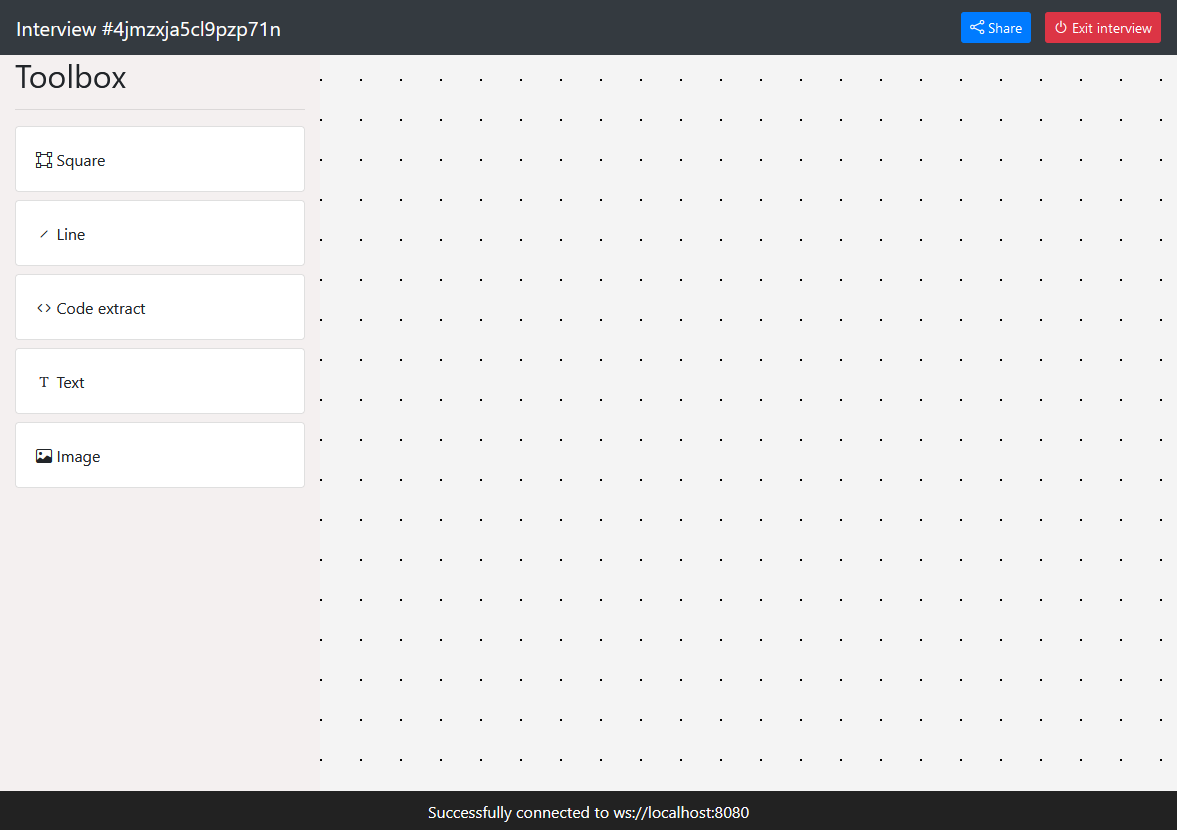
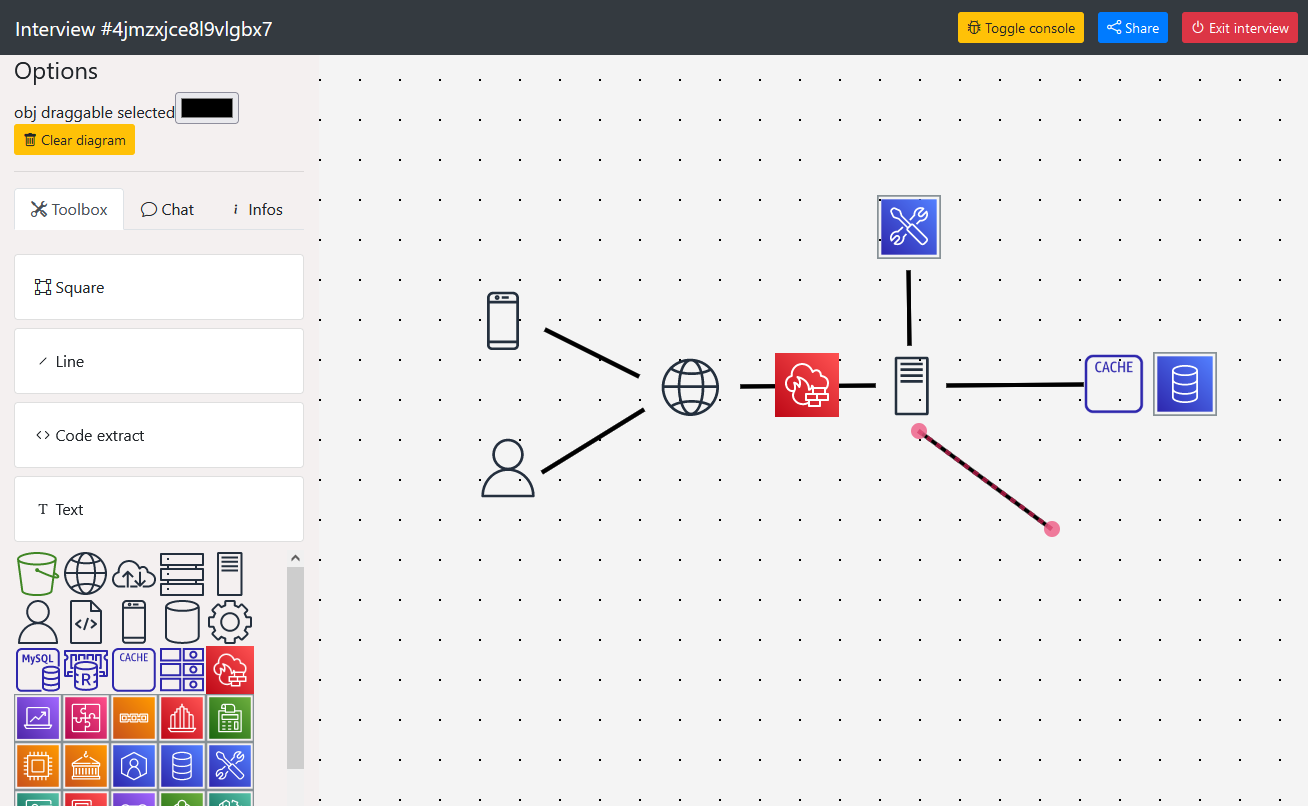
adds objects of type LINE

diff --git a/src/views/includes/js/diagram.js b/src/views/includes/js/diagram.js
@@ -15,25 +15,32 @@ const diagram = {
     addImage: function(url) {
         this.addElement('image', {backgroundImage: `url(${url})`})
     },
+    //  Adds element: line
+    addLine: function() {
+        this.addElement('line', {width: '50px'});
+    },
     //  Adds an element to diagram
-    addElement: function (type, options = null) {
+    addElement: function (type, options=null) {
         const elem = createDiagramElement(type);
         if(options !== null)
             updateDiagramElement(elem, options)
-        getContainer().appendChild(elem);
         Lobby.sendDiagramUpdate()
     },
     //  Convert DOM elements into JSON object
-    toJSON: () => Array.from(getContainer().children).map(elem => {
-        return {
-            //  Fixed properties
-            uuid: elem.getAttribute('data-uuid'),
-            type: elem.getAttribute('data-type'),
-            //  Customizable properties
-            pos: [elem.style.left, elem.style.top],
-            backgroundImage: elem.style.backgroundImage,
-        }
-    }),
+    toJSON: () => Array.from(getContainer().children)
+                    .filter(elem => elem.getAttribute('data-type') !== 'helper')
+                    .map(elem => {
+                        return {
+                            //  Fixed properties
+                            uuid: elem.getAttribute('data-uuid'),
+                            type: elem.getAttribute('data-type'),
+                            //  Customizable properties
+                            pos: [elem.style.left, elem.style.top],
+                            backgroundImage: elem.style.backgroundImage,
+                            width: elem.style.width,
+                            transform: elem.style.transform
+                        }
+        }),
     //  Update DOM elements from JSON object
     updateFromJSON: (jsonElements) => {
         if(!Array.isArray(jsonElements)) throw new Error(`jsonElements must be an Array`)
@@ -45,15 +52,16 @@ const diagram = {
             if(domElement) {        //  Update
                 updateDiagramElement(domElement, jsonElement);
             } else {                //  Create
-                const newElement = createDiagramElement(jsonElement);
-                getContainer().appendChild(newElement);
+                createDiagramElement(jsonElement);
             }
         }
 
         //  Delete
         Array.from(parent.children).forEach(child => {
             const uuid = child.getAttribute('data-uuid');
+            const type = child.getAttribute('data-type');
             if(jsonElements.find(elem => elem.uuid === uuid)) return;
+            if(type === 'helper') return;
             parent.removeChild(child);
         });
     },
@@ -86,11 +94,24 @@ const updateDiagramElement = (domElement, json) => {
 
     if(json.hasOwnProperty('backgroundImage'))
         updateIfNecessary('style.backgroundImage', json.backgroundImage)
+    
+    if(json.hasOwnProperty('width')) {
+        updateIfNecessary('style.width', json.width)
+    }
+
+    if(json.hasOwnProperty('transform')) {
+        updateIfNecessary('style.transform', json.transform)
+    }
 
     //updateIfNecessary('style.background', 'blue')
 }
 
-const createDiagramElement = (typeOrJSONData) => {
+/**
+ * Create object and append it to diagram container
+ * @param {string|object} typeOrJSONData 
+ * @returns 
+ */
+const createDiagramElement = (typeOrJSONData, classes=[OBJECT_CLASSNAME]) => {
     console.log(`Create diagram element: `, typeOrJSONData)
     const elem = document.createElement('div');
 
@@ -106,39 +127,18 @@ const createDiagramElement = (typeOrJSONData) => {
         elem.setAttribute('data-type', typeOrJSONData)
     }
 
-    //  Adds object class
-    elem.classList.add(OBJECT_CLASSNAME);
-    
-    //  Adds draggable events
-    elem.onmousedown = function dragMouseDown(e) {
-        e = e || window.event;
-        e.preventDefault();
-        // get the mouse cursor position at startup:
-        pos3 = e.clientX;
-        pos4 = e.clientY;
-        document.onmouseup = () => {  // stop moving when mouse button is released:
-            document.onmouseup = null;
-            document.onmousemove = null;
-            Lobby.sendDiagramUpdate()
-        };
-        // call a function whenever the cursor moves:
-        document.onmousemove = function elementDrag(e) {
-            e = e || window.event;
-            e.preventDefault();
-            // calculate the new cursor position:
-            pos1 = pos3 - e.clientX;
-            pos2 = pos4 - e.clientY;
-            pos3 = e.clientX;
-            pos4 = e.clientY;
-            // set the element's new position:
-            elem.style.top = (elem.offsetTop - pos2) + "px";
-            elem.style.left = (elem.offsetLeft - pos1) + "px";
-            // Lobby.sendDiagramUpdate() // TODO: delete me !
-        }
-    }
+    //  Adds object required classes
+    classes.forEach(_class => elem.classList.add(_class));
+    elem.classList.add('draggable');
+
+    //  Adds into container
+    getContainer().appendChild(elem);
 
     return elem;
 }
+
+const createHelper = () => createDiagramElement('helper')
+
 
 
 //  Select / unselect diagram objects
@@ -147,11 +147,21 @@ container.addEventListener('mousedown', (event) => {
     const selectedClass = `selected`;
     const obj = event.target;
 
+    //  Do not change selected object when user click on helper
+    if(obj.getAttribute('data-type') === 'helper') {
+        return;
+    }
+
     //  Usefull methods to select DOM obj
-    const select = (domObj) => domObj.classList.add(selectedClass);
+    const select = (domObj) => {
+        domObj.classList.add(selectedClass);
+        toggleElementHelpers(domObj, true)
+    }
     const isSelected = (domObj) => domObj.classList.contains(selectedClass);
     const unselect = () => container.querySelectorAll(`.${selectedClass}`).forEach(elem => {
+        if(!elem.classList.contains(selectedClass)) return;
         elem.classList.remove(selectedClass);
+        toggleElementHelpers(elem, false)
     });
 
     //  Select / unselect logic
@@ -164,3 +174,96 @@ container.addEventListener('mousedown', (event) => {
 
     document.getElementById('selectedObject').innerHTML = obj.classList.toString()
 })
+
+//  Draggable objects
+container.addEventListener('mousedown', (e) => {
+    const elem = e.target;
+    if(!elem || !elem.classList.contains('draggable')) return;
+    e = e || window.event;
+    e.preventDefault();
+    // get the mouse cursor position at startup:
+    pos3 = e.clientX;
+    pos4 = e.clientY;
+    document.onmouseup = () => {  // stop moving when mouse button is released:
+        document.onmouseup = null;
+        document.onmousemove = null;
+        if(elem.getAttribute('data-type') === 'helper')
+            elem.update();
+        Lobby.sendDiagramUpdate()
+    };
+    // call a function whenever the cursor moves:
+    document.onmousemove = function elementDrag(e) {
+        e = e || window.event;
+        e.preventDefault();
+        // calculate the new cursor position:
+        pos1 = pos3 - e.clientX;
+        pos2 = pos4 - e.clientY;
+        pos3 = e.clientX;
+        pos4 = e.clientY;
+        // set the element's new position:
+        elem.style.top = (elem.offsetTop - pos2) + "px";
+        elem.style.left = (elem.offsetLeft - pos1) + "px";
+
+        if(elem.update) {
+            elem.update();
+        }
+    }
+});
+
+const toggleElementHelpers = (domElement, enable) => {
+    if(!enable) {   //  Remove all helpers from container
+        domElement.update = null;
+        Array.from(container.querySelectorAll(`[data-type="helper"]`)).forEach(helper => {
+            container.removeChild(helper);
+        });
+        return
+    }
+    //  Create helpers of provided DOM element
+    switch (domElement.getAttribute('data-type')) {
+        case 'line':
+            addsLineHelpers(domElement);
+            break;
+    }
+}
+
+//  Create helpers, place them and attach mouse events
+const addsLineHelpers = (domElement) => {
+    const p1 = createHelper();
+    const p2 = createHelper();
+    
+    //  Update helper points position when line is selected or moved
+    domElement.update = () => {
+        const [xMid, yMid] = [domElement.offsetLeft, domElement.offsetTop];
+        //  Retrieve rotation angle in degrees
+        let angle;
+        try {
+            angle = +((new RegExp(/rotate\((.*)deg\)/gi)).exec(domElement.style.transform)[1])
+        } catch (error) { angle = 0; }
+        const angleInRadian = angle * Math.PI / 180;
+        const dist = +(domElement.style.width.replace('px', ''));
+        p1.style.left = dist/2 * Math.cos(angleInRadian) + xMid - p1.offsetWidth/2;
+        p1.style.top = dist/2 * Math.sin(angleInRadian) + yMid - p1.offsetHeight/2;
+        p2.style.left = -dist/2 * Math.cos(angleInRadian) + xMid - p2.offsetWidth/2;
+        p2.style.top = -dist/2 * Math.sin(angleInRadian) + yMid - p2.offsetHeight/2;
+    }
+
+    //  Update line when helper object is moved
+    p1.update = p2.update = () => {
+        const [xa, ya] = [p1.offsetLeft+p1.offsetWidth/2, p1.offsetTop+p1.offsetHeight/2];
+        const [xb, yb] = [p2.offsetLeft+p2.offsetWidth/2, p2.offsetTop+p2.offsetHeight/2];
+        //  Update line position
+        const [xMid, yMid] = [(xa+xb)/2, (ya+yb)/2];
+        domElement.style.left = xMid;
+        domElement.style.top = yMid;
+        //  Update line angle
+        const angleInRadian = Math.atan2(ya-yb, xa-xb);
+        const angleInDegrees = (angleInRadian * 180) / Math.PI;
+        domElement.style.transform = `translate(-50%, -50%) rotate(${angleInDegrees}deg)`;
+        //  Update line length
+        const dist = Math.sqrt((xb-xa)**2 + (yb-ya)**2);
+        domElement.style.width = `${dist}px`;
+    }
+    
+
+    domElement.update();
+}

diff --git a/src/views/includes/css/diagram.css b/src/views/includes/css/diagram.css
@@ -2,7 +2,11 @@
  * Diagram objects shape
  *      ..Squares, rectangles, triangles...
  ************************************************/
-
+section#interview-container {
+    --selected-color: rgb(165, 26, 66);
+    --helper-color: rgb(237, 91, 132);
+}
+ 
 /* Generic object */
 section#interview-container div.obj {
     position: absolute;
@@ -14,9 +18,17 @@ section#interview-container div.obj {
     cursor: grab;
 }
 
+/* Object anchor points */
+section#interview-container div.obj[data-type="helper"] {
+    background-color: var(--helper-color);
+    cursor: crosshair;
+    opacity: .8;
+    border-radius: 50%;
+}
+
 /** Selected object */
 section#interview-container div.obj.selected { 
-    border: 2px dashed rgb(165, 26, 66) !important;
+    border: 2px dashed var(--selected-color) !important;
 }
 
 /** Square */
@@ -37,6 +49,15 @@ section#interview-container div.obj[data-type="image"] {
 }
 
 /** Line */
+section#interview-container div.obj[data-type="line"] {
+    background: black;
+    border: 1px solid black;
+    /*width: 50px; /!\ width value provided in javascript */
+    height: 4px;
+    min-height: 4px;
+    transform: translate(-50%, -50%) rotate(0deg);
+}
+
 /** Text */
 /** Pyramid */
 /** ... */

diff --git a/src/views/includes/js/toolbox.js b/src/views/includes/js/toolbox.js
@@ -19,6 +19,7 @@ const AWS_ICONS = [
     "Res_Amazon-ElastiCache_Cache-Node_48_Light.svg",
     "Res_Amazon-DynamoDB_Items_48_Light.svg",
     //  Category Icons
+    'arch-category/Arch_AWS-Network-Firewall_48.svg',
     'arch-category/Arch-Category_Analytics_48.svg',
     'arch-category/Arch-Category_Application-Integration_48.svg',
     'arch-category/Arch-Category_Blockchain_48.svg',

diff --git a/src/views/includes/css/style.css b/src/views/includes/css/style.css
@@ -75,8 +75,12 @@ section#interview-container {
     background-size: 40px 40px;
 }
 
+section#service-icons {
+    height: 30vh;
+    overflow-y: auto;
+}
 
-.service-icon {
+section#service-icons .service-icon {
     cursor: pointer;
     width: 48px;
 }
